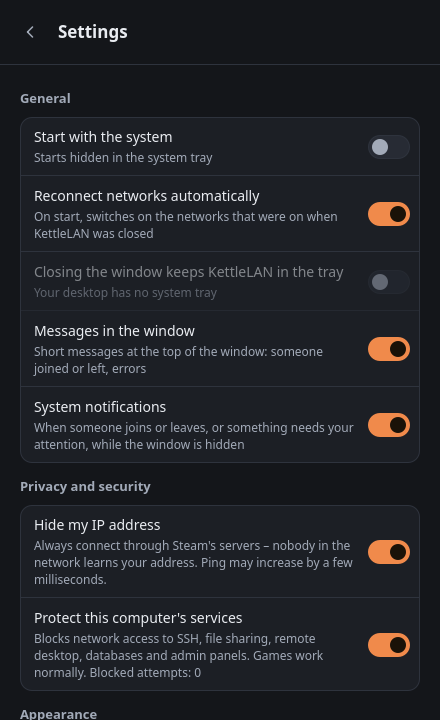
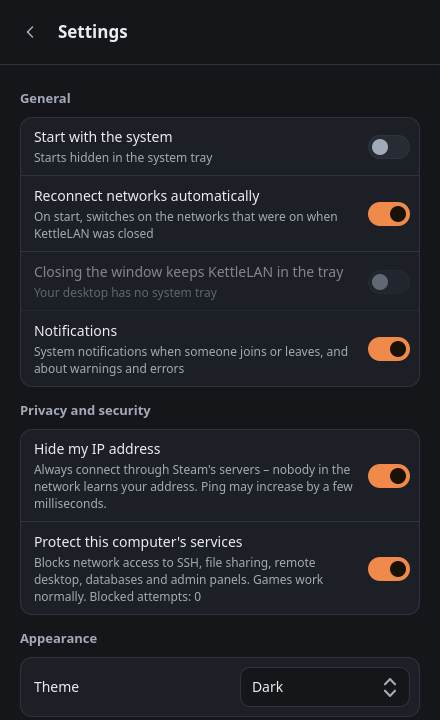
GUI: system notifications instead of pop-ups, Copied shown in place

diff --git a/src/gui/qml/NetworkPage.qml b/src/gui/qml/NetworkPage.qml
@@ -119,8 +119,11 @@ Item {
                         readonly property color badgeFg: (modelData.self || !modelData.verified || modelData.pingMs < 0) ? Theme.muted
                             : (modelData.relayed || modelData.conflict) ? Theme.relayFg : Theme.directFg
 
-                        onClicked: if (!modelData.self && modelData.verified)
-                                       Backend.copyText(modelData.address, qsTr("Copied address %1 (%2)").arg(modelData.address).arg(modelData.name))
+                        onClicked: if (!modelData.self && modelData.verified) {
+                                       Backend.copyText(modelData.address, "")
+                                       rowCopied.restart()
+                                   }
+                        Timer { id: rowCopied; interval: 1500 }
 
                         background: Rectangle {
                             color: row.down ? Theme.border : (row.hovered && !row.modelData.self ? Theme.surface2 : "transparent")
@@ -151,7 +154,7 @@ Item {
                                     font.weight: Font.DemiBold
                                     elide: Text.ElideRight
                                 }
-                                Text { textFormat: Text.PlainText; text: row.modelData.address; color: Theme.muted; font.family: Theme.mono; font.pixelSize: 12 }
+                                Text { textFormat: Text.PlainText; text: rowCopied.running ? qsTr("Copied ✓") : row.modelData.address; color: rowCopied.running ? Theme.ok : Theme.muted; font.family: Theme.mono; font.pixelSize: 12 }
                             }
                             ColumnLayout {
                                 spacing: 4
@@ -183,8 +186,9 @@ Item {
                     Layout.fillWidth: true
                     kind: "primary"
                     iconName: "userPlus"
-                    text: qsTr("Invite friends")
-                    onClicked: Backend.copyText(Backend.networkCode, qsTr("Network code copied – send it to your friends"))
+                    text: inviteCopied.running ? qsTr("Code copied – send it to your friends") : qsTr("Invite friends")
+                    onClicked: { Backend.copyText(Backend.networkCode, ""); inviteCopied.restart() }
+                    Timer { id: inviteCopied; interval: 2500 }
                 }
                 AppButton {
                     kind: "secondary"

diff --git a/src/gui/qml/SettingsPage.qml b/src/gui/qml/SettingsPage.qml
@@ -99,16 +99,9 @@ Item {
                     }
                     Toggle {
                         Layout.fillWidth: true
-                        title: qsTr("Messages in the window")
-                        hint: qsTr("Short messages at the top of the window: someone joined or left, errors")
-                        checked: Backend.windowMessages
-                        onUserToggled: (value) => Backend.windowMessages = value
-                    }
-                    Toggle {
-                        Layout.fillWidth: true
                         last: true
-                        title: qsTr("System notifications")
-                        hint: qsTr("When someone joins or leaves, or something needs your attention, while the window is hidden")
+                        title: qsTr("Notifications")
+                        hint: qsTr("System notifications when someone joins or leaves, and about warnings and errors")
                         checked: Backend.notifications
                         onUserToggled: (value) => Backend.notifications = value
                     }

diff --git a/src/gui/qml/NetworkDialog.qml b/src/gui/qml/NetworkDialog.qml
@@ -121,10 +121,11 @@ Popup {
             }
             Item { Layout.fillWidth: true }
             IconButton {
-                iconName: "copy"
+                iconName: codeCopied.running ? "check" : "copy"
                 iconSize: 18
-                label: qsTr("Copy network code")
-                onClicked: Backend.copyText(dialog.code, qsTr("Network code copied – send it to your friends"))
+                label: codeCopied.running ? qsTr("Copied") : qsTr("Copy network code")
+                onClicked: { Backend.copyText(dialog.code, ""); codeCopied.restart() }
+                Timer { id: codeCopied; interval: 1500 }
             }
         }
 

diff --git a/src/gui/qml/InfoCard.qml b/src/gui/qml/InfoCard.qml
@@ -41,10 +41,11 @@ Rectangle {
             IconButton {
                 implicitWidth: 34
                 implicitHeight: 34
-                iconName: "copy"
+                iconName: copiedTimer.running ? "check" : "copy"
                 iconSize: 16
-                label: qsTr("Copy")
-                onClicked: card.copyRequested()
+                label: copiedTimer.running ? qsTr("Copied") : qsTr("Copy")
+                onClicked: { card.copyRequested(); copiedTimer.restart() }
+                Timer { id: copiedTimer; interval: 1500 }
             }
         }
     }

diff --git a/src/gui/backend.cpp b/src/gui/backend.cpp
@@ -92,7 +92,6 @@ Backend::Backend(bool demo, QObject* parent) : QObject(parent), demo_(demo) {
     QSettings s;
     closeToTray_ = s.value(QStringLiteral("closeToTray"), true).toBool();
     notifications_ = s.value(QStringLiteral("notifications"), true).toBool();
-    windowMessages_ = s.value(QStringLiteral("windowMessages"), true).toBool();
     theme_ = s.value(QStringLiteral("theme"), QStringLiteral("system")).toString();
     autoConnect_ = s.value(QStringLiteral("autoConnect"), true).toBool();
     hideAddress_ = s.value(QStringLiteral("hideAddress"), true).toBool();
@@ -296,17 +295,20 @@ QString Backend::messageText(const Message& message) const {
 }
 
 void Backend::handleEvent(const Message& message) {
-    const QString text = messageText(message);
-    // In the window: not the state of a network (the list shows it), and only when wanted.
-    if (windowMessages_ && !isNetworkStateEvent(message.id)) emit toast(text);
-    // System notifications: people and warnings, only when the window is hidden.
-    const bool hidden = !window_ || !window_->isVisible();
-    if (notifications_ && isNotifyEvent(message.id) && hidden && tray_)
+    if (isNetworkStateEvent(message.id)) return; // connecting, connected, left: the list shows it
+    inform(messageText(message), !isPeerEvent(message.id));
+}
+
+void Backend::inform(const QString& text, bool important) {
+    if (notifications_ && tray_ && QSystemTrayIcon::supportsMessages()) {
 #ifdef _WIN32
-        tray_->showMessage(QStringLiteral("KettleLAN"), text, makeAppIcon(true), 4000); // shown as plain text
+        tray_->showMessage(QStringLiteral("KettleLAN"), text, makeAppIcon(true), 5000); // shown as plain text
 #else
-        tray_->showMessage(QStringLiteral("KettleLAN"), text.toHtmlEscaped(), makeAppIcon(true), 4000); // may be HTML
+        tray_->showMessage(QStringLiteral("KettleLAN"), text.toHtmlEscaped(), makeAppIcon(true), 5000); // may be HTML
 #endif
+    } else if (important) {
+        emit toast(text);
+    }
 }
 
 // ---------------------------------------------------------------- actions
@@ -332,7 +334,7 @@ bool Backend::isCodeValid(const QString& code) const { return netcode::parse(cod
 
 void Backend::joinNetwork(const QString& code) {
     if (!isCodeValid(code)) {
-        emit toast(messageText({Msg::InvalidCode, {}}));
+        inform(messageText({Msg::InvalidCode, {}}), true);
         return;
     }
     const QString normalized = normalizeCode(code);
@@ -341,7 +343,7 @@ void Backend::joinNetwork(const QString& code) {
         return;
     }
     if (connectedCount() >= maxNetworks()) {
-        emit toast(messageText({Msg::NetworkLimit, {std::to_string(maxNetworks())}}));
+        inform(messageText({Msg::NetworkLimit, {std::to_string(maxNetworks())}}), true);
         return;
     }
     setActive(normalized, true);
@@ -421,7 +423,7 @@ void Backend::forgetNetwork(const QString& code) {
             storeSaved();
             rebuildNetworks();
             emit changed();
-            emit toast(tr("Removed “%1” from your networks").arg(name));
+            inform(tr("Removed “%1” from your networks").arg(name), false);
             return;
         }
     }
@@ -434,10 +436,8 @@ void Backend::leaveNetwork() {
     emit changed();
 }
 
-void Backend::copyText(const QString& text, const QString& message) {
-    QGuiApplication::clipboard()->setText(text);
-    emit toast(message);
-}
+// The confirmation is shown where the user clicked (a ✓ or "Copied"), not as a message.
+void Backend::copyText(const QString& text, const QString&) { QGuiApplication::clipboard()->setText(text); }
 
 void Backend::openUrl(const QString& url) { QDesktopServices::openUrl(QUrl(url)); }
 
@@ -555,7 +555,7 @@ void Backend::renameNetwork(const QString& code, const QString& name) {
     if (clean.isEmpty() || !n || !n->owner) return;
     if (engine_) engine_->rename(c.toStdString(), clean.toStdString());
     updateSavedName(c, clean);
-    emit toast(tr("Renamed the network to “%1” for everyone").arg(clean));
+    inform(tr("Renamed the network to “%1” for everyone").arg(clean), false);
 }
 
 void Backend::rememberNetwork(const QString& code, const QString& name) {
@@ -578,13 +578,6 @@ void Backend::rememberNetwork(const QString& code, const QString& name) {
         if (!liveFor(c) && !activeNetworks().contains(c)) saved_.removeAt(i);
     }
     storeSaved();
-}
-
-void Backend::setWindowMessages(bool v) {
-    if (v == windowMessages_) return;
-    windowMessages_ = v;
-    QSettings().setValue(QStringLiteral("windowMessages"), v);
-    emit settingsChanged();
 }
 
 void Backend::setNotifications(bool v) {

diff --git a/src/gui/backend.h b/src/gui/backend.h
@@ -44,7 +44,6 @@ class Backend : public QObject {
     // settings
     Q_PROPERTY(bool closeToTray READ closeToTray WRITE setCloseToTray NOTIFY settingsChanged)
     Q_PROPERTY(bool notifications READ notifications WRITE setNotifications NOTIFY settingsChanged)
-    Q_PROPERTY(bool windowMessages READ windowMessages WRITE setWindowMessages NOTIFY settingsChanged)
     Q_PROPERTY(bool autostart READ autostart WRITE setAutostart NOTIFY settingsChanged)
     Q_PROPERTY(bool autoConnect READ autoConnect WRITE setAutoConnect NOTIFY settingsChanged)
     Q_PROPERTY(bool hideAddress READ hideAddress WRITE setHideAddress NOTIFY settingsChanged)
@@ -86,8 +85,9 @@ public:
     bool closeToTray() const { return closeToTray_; }
     void setCloseToTray(bool v);
     bool notifications() const { return notifications_; }
-    bool windowMessages() const { return windowMessages_; }
-    void setWindowMessages(bool v);
+    // A message as a system notification (when on and supported); an important one falls back to
+    // a short message in the window, so an error is never lost.
+    void inform(const QString& text, bool important);
     void setNotifications(bool v);
     bool autostart() const;
     void setAutostart(bool v);
@@ -200,7 +200,7 @@ private:
     bool protectServices_ = true;
     qulonglong blockedPackets_ = 0;
     bool notifications_ = true;
-    bool windowMessages_ = true;
+
     QString theme_ = QStringLiteral("system");
 
 };

diff --git a/src/core/messages.cpp b/src/core/messages.cpp
@@ -66,11 +66,6 @@ std::string english(const Message& message) {
 
 bool isPeerEvent(Msg id) { return id == Msg::PeerJoined || id == Msg::PeerLeft; }
 
-bool isNotifyEvent(Msg id) {
-    return isPeerEvent(id) || id == Msg::OldVersionInNetwork || id == Msg::PeerBadKey || id == Msg::PeerConflict ||
-           id == Msg::PeerBadVersion;
-}
-
 bool isNetworkStateEvent(Msg id) {
     return id == Msg::Connecting || id == Msg::Connected || id == Msg::Left || id == Msg::Merging;
 }

diff --git a/src/core/messages.h b/src/core/messages.h
@@ -71,8 +71,6 @@ std::string english(const Message& message);
 
 // Whether the message is about another person joining or leaving (shown as a notification).
 bool isPeerEvent(Msg id);
-// Worth a system notification when the window is hidden: people joining and leaving, and warnings.
-bool isNotifyEvent(Msg id);
 // The state of a network, already shown on the list (no message needed in the window).
 bool isNetworkStateEvent(Msg id);
 

diff --git a/CHANGELOG.md b/CHANGELOG.md
@@ -21,8 +21,8 @@ Before tagging a release add a `## [x.y.z] – date` section (see [docs/RELEASIN
 - Steam: connect to Steam only while a network is on – in a separate background process (kettlelan-steam), so with every network off Steam no longer shows "Spacewar"
 - GUI: Pause / Resume button – every network off and no Steam connection, then the same networks on again
 - GUI: networks show "Connecting…" on the list while KettleLAN connects to Steam – no separate screen in between
-- GUI: messages at the top of the window instead of over the buttons, none about a network's state (the list shows it)
-- GUI: settings "Messages in the window" and "System notifications" (also about warnings, such as an older KettleLAN in the network)
+- GUI: messages as system notifications instead of pop-ups in the window, none about a network's state (the list shows it); errors appear in the window when notifications are off
+- GUI: "Copied" shown where you clicked (✓ on the copy button, "Copied" in the members list, on the Invite button)
 - GUI: your address is shown also while KettleLAN is not connected to Steam
 - Network: new protocol version 3 – not compatible with KettleLAN 0.2, everyone in a network needs 0.3
 - Security: derive the lobby tag, the HELLO proof key and the name key from the network code with Argon2id, so the code cannot be guessed from lobby data or received proofs
